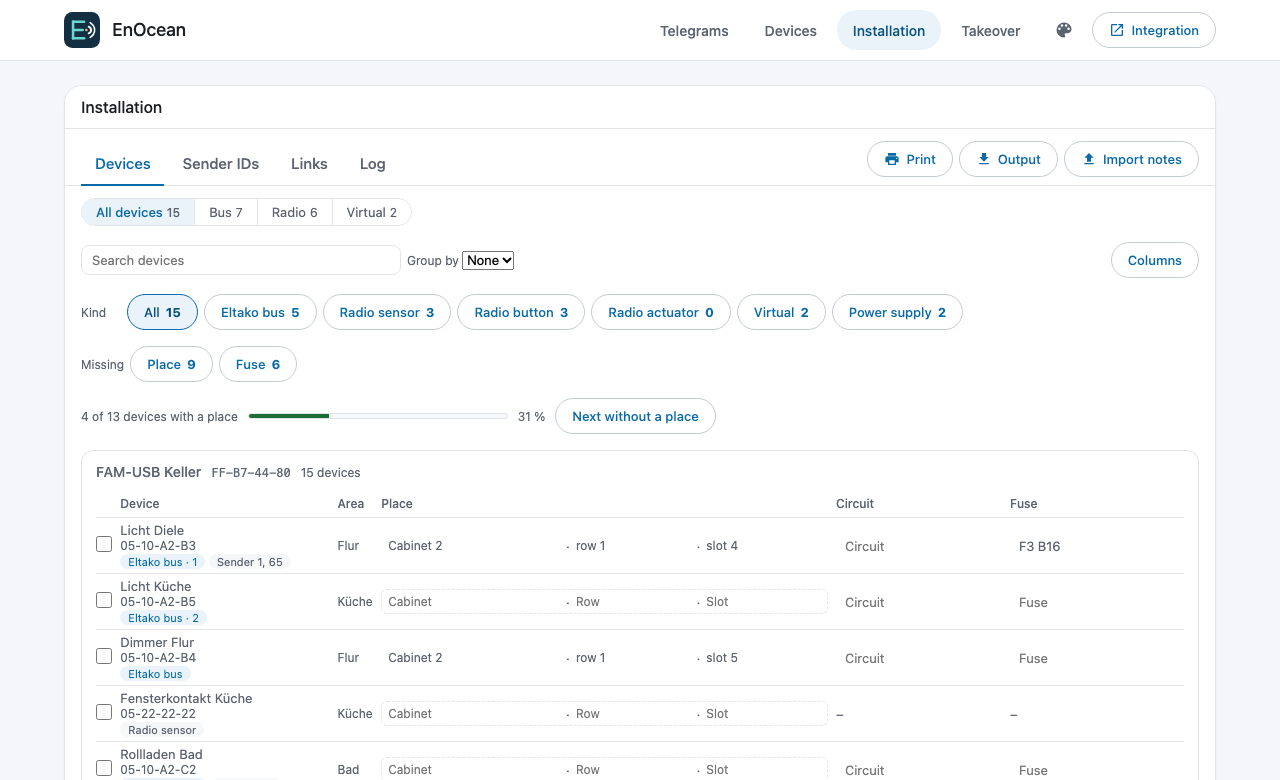
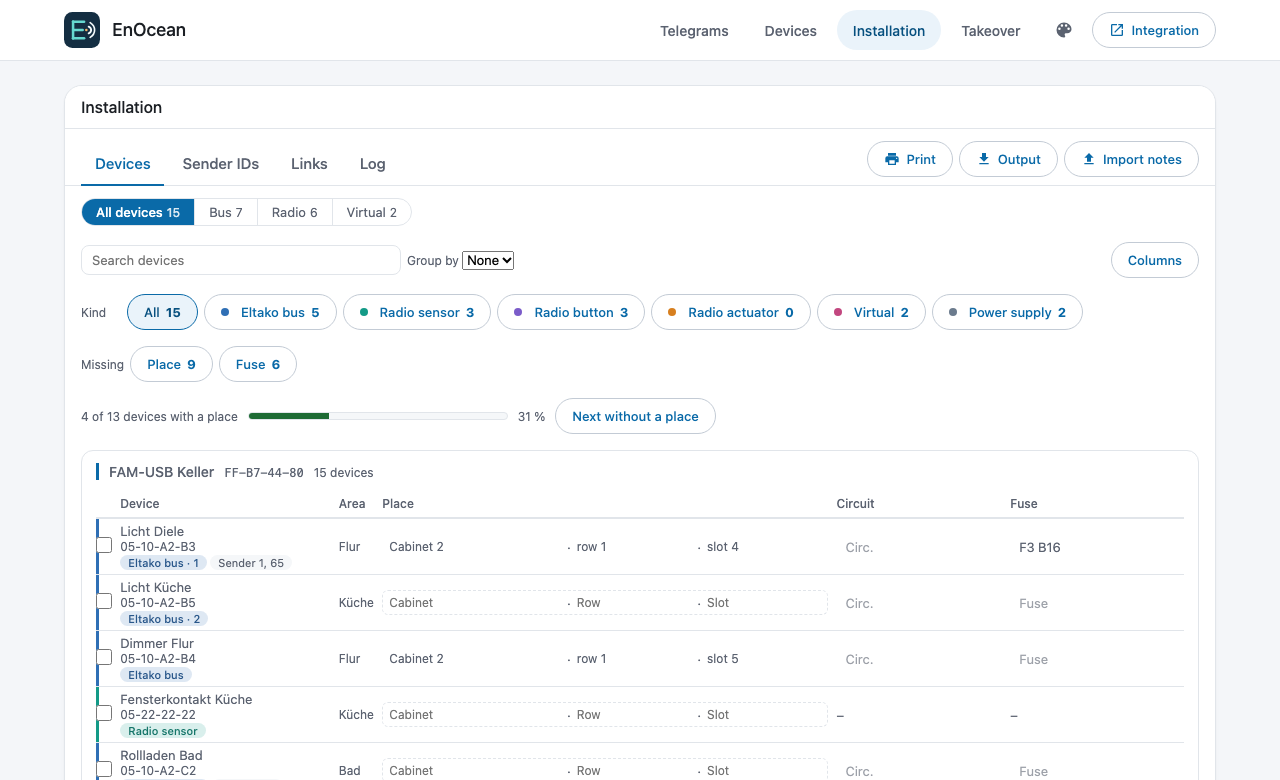
Installation: a hue per kind, accents on tiles, tinted groups, coloured link origins and log events
Colour carries meaning: kind tags, chips and row stripes share one palette, the origin of a
link has its own, tiles turn green or amber by state. New README screenshots; the preview
page takes iview, iart and ilinks to open a view.

diff --git a/custom_components/enocean_eltako/frontend/installation.js b/custom_components/enocean_eltako/frontend/installation.js
@@ -207,9 +207,6 @@ export const INSTALLATION_STYLE = `
   .installation .lnone { padding: 10px 12px; color: var(--warn); font-size: calc(13px * var(--fs)); border-top: 1px solid var(--line); background: color-mix(in srgb, var(--warn) 12%, transparent); }
   .installation .ladd { display: flex; flex-wrap: wrap; gap: 8px; align-items: center; padding: 8px 12px; border-top: 1px solid var(--line); }
   .installation .ladd input, .installation .ladd select { font: inherit; font-size: calc(13px * var(--fs)); padding: 5px 8px; border: 1px solid var(--line); border-radius: 6px; background: var(--surface); color: inherit; }
-  .installation .tag.src-assigned { background: color-mix(in srgb, var(--warn) 20%, transparent); color: inherit; }
-  .installation .tag.src-declared { background: var(--accent-soft); color: var(--accent); }
-  .installation .tag.src-entered { background: color-mix(in srgb, var(--ok) 18%, transparent); color: inherit; }
   .installation .tag.role { background: var(--accent-soft); color: var(--accent); }
   .installation .lrow > * { min-width: 0; }
   .installation .lrow .nm, .installation .lrow .lstate > span, .installation .lrow .nm a { overflow-wrap: anywhere; }
@@ -223,7 +220,8 @@ export const INSTALLATION_STYLE = `
   .installation .mcell.assigned { background: color-mix(in srgb, var(--warn) 20%, transparent); border-color: transparent; }
   .installation .mcell.declared { background: var(--accent-soft); color: var(--accent); border-color: transparent; }
   .installation .mcell.entered { background: color-mix(in srgb, var(--ok) 18%, transparent); border-color: transparent; }
-  .installation .mplus { cursor: pointer; color: var(--muted); background: none; border: 0; font: inherit; }
+  .installation .mplus { cursor: pointer; color: var(--muted); background: none; border: 0; font: inherit; width: 26px; height: 26px; border-radius: 50%; }
+  .installation .mplus:hover { background: var(--accent-soft); color: var(--accent); }
   @media (max-width: 720px) {
     .installation .lrow { display: flex; flex-wrap: wrap; }
     .installation .lrow > :nth-child(1), .installation .lrow > :nth-child(2), .installation .lrow > :nth-child(4) { flex: 1 1 100%; }
@@ -272,7 +270,50 @@ export const INSTALLATION_STYLE = `
   .installation details.colmenu summary::-webkit-details-marker { display: none; }
   .installation details.colmenu .items { position: absolute; right: 0; z-index: 5; margin-top: 4px; min-width: 200px; display: grid; gap: 2px; padding: 8px 10px; background: var(--surface); border: 1px solid var(--line); border-radius: 10px; }
   .installation details.colmenu label { display: flex; gap: 8px; align-items: center; font-size: calc(13px * var(--fs)); padding: 3px 0; cursor: pointer; }
-`;
+
+  /* colour: one hue per kind, used for tags, chips, row stripes and cards */
+  .installation { --k-bus: #2f6fb5; --k-sensor: #139a87; --k-taster: #7b5cc9; --k-aktor: #d77f1f; --k-virt: #c2477f; --k-psu: #6b7b8d; }
+  .installation .k-bus, .installation [data-k="bus"] { --k: var(--k-bus); }
+  .installation .k-sensor, .installation [data-k="sensor"] { --k: var(--k-sensor); }
+  .installation .k-taster, .installation [data-k="taster"] { --k: var(--k-taster); }
+  .installation .k-aktor, .installation [data-k="aktor"] { --k: var(--k-aktor); }
+  .installation .k-virt, .installation [data-k="virt"] { --k: var(--k-virt); }
+  .installation .k-psu, .installation [data-k="psu"] { --k: var(--k-psu); }
+  .installation .tag.kind { background: color-mix(in srgb, var(--k) 16%, transparent); color: color-mix(in srgb, var(--k) 70%, var(--text)); font-weight: 500; }
+  .installation .tag.kind:hover { background: color-mix(in srgb, var(--k) 26%, transparent); }
+  .installation .itable tr[data-k] > td:first-child { box-shadow: inset 3px 0 0 var(--k); }
+  .installation .chip[data-k]::before { content: ""; width: 8px; height: 8px; border-radius: 50%; background: var(--k); display: inline-block; margin-right: 6px; }
+  .installation .chip[data-k][aria-pressed="true"] { border-color: var(--k); background: color-mix(in srgb, var(--k) 14%, transparent); color: color-mix(in srgb, var(--k) 75%, var(--text)); }
+  .installation .seg button[aria-pressed="true"] { background: var(--accent); color: var(--on-accent); }
+  .installation .seg button[aria-pressed="true"] .isub { color: inherit; opacity: 0.85; }
+  .installation .tile { border-left: 3px solid var(--accent); background: color-mix(in srgb, var(--accent) 7%, var(--soft)); font-size: calc(16px * var(--fs)); font-weight: 500; line-height: 1.35; }
+  .installation .tile small { font-weight: 400; text-transform: none; letter-spacing: 0; }
+  .installation .tile.ok { border-left-color: var(--ok); background: color-mix(in srgb, var(--ok) 9%, var(--soft)); }
+  .installation .tile.bad { border-left-color: var(--warn); background: color-mix(in srgb, var(--warn) 18%, transparent); }
+  .installation .itable th { border-bottom: 2px solid var(--line); }
+  .installation .itable tbody tr:not(.grp):not(.psu):not(.free):hover td { background: color-mix(in srgb, var(--accent) 5%, transparent); }
+  .installation .itable tr.grp td { background: color-mix(in srgb, var(--accent) 10%, var(--soft)); }
+  .installation .itable tr.psu td { background: color-mix(in srgb, var(--k-psu) 14%, transparent); }
+  .installation .itable tr.psu.bad td { background: color-mix(in srgb, var(--warn) 20%, transparent); }
+  .installation .gwhead h3 { border-left: 3px solid var(--accent); padding-left: 10px; }
+  .installation .progress .barbg { height: 8px; border-radius: 4px; }
+  .installation .lcard { border-left: 4px solid var(--k, var(--line)); }
+  .installation .lhead { background: color-mix(in srgb, var(--k, var(--accent)) 9%, var(--soft)); }
+  .installation .tag.role, .installation .tag[class*="src-"] { font-weight: 500; }
+  .installation [data-src="assigned"], .installation .tag.src-assigned { --s: var(--k-aktor); }
+  .installation [data-src="declared"], .installation .tag.src-declared { --s: var(--k-bus); }
+  .installation [data-src="entered"], .installation .tag.src-entered { --s: var(--ok); }
+  .installation .tag[class*="src-"] { background: color-mix(in srgb, var(--s) 18%, transparent); color: color-mix(in srgb, var(--s) 70%, var(--text)); }
+  .installation .chip[data-src]::before { content: ""; width: 8px; height: 8px; border-radius: 50%; background: var(--s); display: inline-block; margin-right: 6px; }
+  .installation .chip[data-src][aria-pressed="true"] { border-color: var(--s); background: color-mix(in srgb, var(--s) 14%, transparent); color: color-mix(in srgb, var(--s) 75%, var(--text)); }
+  .installation .itable tr[data-k] > td.name:first-child { padding-left: 14px; }
+  .installation .tag.ev { --e: var(--k-psu); background: color-mix(in srgb, var(--e) 16%, transparent); color: color-mix(in srgb, var(--e) 72%, var(--text)); font-weight: 500; }
+  .installation .tag.ev-device_added { --e: var(--ok); }
+  .installation .tag.ev-device_removed, .installation .tag.ev-sender_removed { --e: var(--warn); }
+  .installation .tag.ev-sender_assigned { --e: var(--k-bus); }
+  .installation .tag.ev-teach_in { --e: var(--k-taster); }
+  .installation .tag.ev-sender_test { --e: var(--k-sensor); }
+  .installation .tag.ev-import { --e: var(--k-psu); }`;
 
 const gateways = (doc) => doc?.gateways ?? [];
 const label = (t, field) => t.inst.fields[field];
@@ -455,7 +496,7 @@ export const installation = {
     const plain = (id) => String(id ?? "").replaceAll("-", "").toUpperCase();
     const all = gateways(state.doc).flatMap((gw) => gw.devices.filter(isVirtual).map((d) => ({ gw, d })));
     const taught = ({ gw, d }) => gw.links.filter((l) => l.source === "entered" && plain(l.from_id) === plain(d.id));
-    const tile = (title, value, bad = false) => `<div class="tile${bad ? " bad" : ""}"><small>${esc(title)}</small>${value}</div>`;
+    const tile = (title, value, bad = false) => `<div class="tile${bad === "ok" ? " ok" : bad ? " bad" : ""}"><small>${esc(title)}</small>${value}</div>`;
     const sensors = all.filter(({ d }) => d.virtual);
     const tiles = `<div class="tiles">${tile(V.tileDevices, esc(I.funk.devicesN(all.length)))}${tile(V.tileLinked, `${all.filter((x) => taught(x).length).length} ${esc(I.of)} ${all.length}`)}${tile(V.tileNoSource, String(sensors.filter(({ d }) => !d.follows?.length).length), sensors.some(({ d }) => !d.follows?.length))}</div>`;
     const search = `<input class="isearch" data-in-search value="${esc(state.q)}" placeholder="${esc(I.search)}" aria-label="${esc(I.search)}">`;
@@ -465,7 +506,7 @@ export const installation = {
         const nr = numbers.length ? numbers.map((n) => `<a data-in-snd="${esc(gw.entry_id)}|${n}">${n}</a>`).join(", ") : "–";
         const follows = d.follows?.length ? d.follows.map((e) => `<span class="mono">${esc(e)}</span>`).join("<br>") : `<span class="isub">${esc(d.virtual ? V.noSource : V.sendsPress)}</span>`;
         const into = taught({ gw, d }).map((l) => (l.to_key && gw.devices.some((x) => x.note_key === l.to_key) ? `<a data-in-goto="${esc(gw.devices.find((x) => x.note_key === l.to_key).key)}">${esc(l.to_name)}</a>` : esc(l.to_name)) + (l.role ? ` <span class="isub">${esc(l.role)}</span>` : "") + (l.learn ? ` <span class="isub">· ${esc(l.learn)}</span>` : ""));
-        return `<tr data-in-row="${esc(d.key)}"><td class="name">${esc(d.name)}<div class="isub">${esc(d.model ?? "")}</div><div>${this._instKindTag(d)}</div></td><td class="mono">${nr}</td><td class="mono">${esc(d.id)}</td><td>${follows}</td><td class="lk">${into.length ? into.join("<br>") : `<span class="isub">${esc(V.noLink)}</span>`}</td></tr>`;
+        return `<tr data-in-row="${esc(d.key)}" data-k="virt"><td class="name">${esc(d.name)}<div class="isub">${esc(d.model ?? "")}</div><div>${this._instKindTag(d)}</div></td><td class="mono">${nr}</td><td class="mono">${esc(d.id)}</td><td>${follows}</td><td class="lk">${into.length ? into.join("<br>") : `<span class="isub">${esc(V.noLink)}</span>`}</td></tr>`;
       }).join("");
       const head = [I.device, V.cols.nr, V.cols.id, V.cols.follows, V.cols.taught].map((h) => `<th>${esc(h)}</th>`).join("");
       return `<section class="gw">${this._instGwHead(gw)}<div class="tablewrap"><table class="itable"><thead><tr>${head}</tr></thead><tbody>${rows || `<tr><td colspan="5" class="none">${esc(V.none)}</td></tr>`}</tbody></table></div></section>`;
@@ -495,10 +536,10 @@ export const installation = {
     const all = gateways(state.doc).flatMap((gw) => [...gw.devices.filter((d) => ["sensor", "taster", "aktor"].includes(kindOf(d))), ...this._instExtras(gw).filter((d) => d.manual && kindOf(d) !== "bus")]);
     const now = this._now() / 1000;
     const late = all.filter((d) => d.signal?.last != null && now - d.signal.last > SIGNAL_LATE).length;
-    const tile = (title, value, bad = false) => `<div class="tile${bad ? " bad" : ""}"><small>${esc(title)}</small>${value}</div>`;
+    const tile = (title, value, bad = false) => `<div class="tile${bad === "ok" ? " ok" : bad ? " bad" : ""}"><small>${esc(title)}</small>${value}</div>`;
     const tiles = `<div class="tiles">${tile(F.tileDevices, esc(F.devicesN(all.length)))}${tile(F.tileDocumented, String(all.filter((d) => d.manual).length))}${tile(F.tileSilent, String(late), late > 0)}${tile(F.tileRepeater, String(all.filter((d) => d.signal?.repeater_only).length))}</div>`;
     const kinds = ["taster", "sensor", "aktor"];
-    const artChips = `<div class="chips"><span class="isub lead">${esc(I.art)}</span><button class="chip" data-in-art="all" aria-pressed="${state.art === "all"}">${esc(I.all)} <b>${all.length}</b></button>${kinds.map((k) => `<button class="chip" data-in-art="${k}" aria-pressed="${state.art === k}">${esc(I.kinds[k])} <b>${all.filter((d) => kindOf(d) === k).length}</b></button>`).join("")}</div>`;
+    const artChips = `<div class="chips"><span class="isub lead">${esc(I.art)}</span><button class="chip" data-in-art="all" aria-pressed="${state.art === "all"}">${esc(I.all)} <b>${all.length}</b></button>${kinds.map((k) => `<button class="chip" data-k="${k}" data-in-art="${k}" aria-pressed="${state.art === k}">${esc(I.kinds[k])} <b>${all.filter((d) => kindOf(d) === k).length}</b></button>`).join("")}</div>`;
     const menu = `<details class="colmenu" ${state.colMenu ? "open" : ""}><summary class="chip">${esc(I.columns)}</summary><div class="items">${FUNK_COLUMNS.map((c) => `<label><input type="checkbox" data-in-funkcol="${c}" ${state.funkCols.has(c) ? "checked" : ""}>${esc(F.cols[c])}</label>`).join("")}</div></details>`;
     const search = `<input class="isearch" data-in-search value="${esc(state.q)}" placeholder="${esc(I.search)}" aria-label="${esc(I.search)}">`;
     const form = state.docForm
@@ -523,7 +564,7 @@ export const installation = {
         const name = d.manual ? `<input class="cell" data-in-mfield="name" data-in-gw="${esc(gw.entry_id)}" data-in-mid="${esc(d.mid)}" value="${esc(d.name === F.unnamed ? "" : d.name)}" placeholder="${esc(t.doc.manualName)}" aria-label="${esc(t.doc.manualName)}" autocomplete="off">` : esc(d.name);
         const sub = d.manual ? "" : `<div class="isub">${esc([d.model, d.eep].filter(Boolean).join(" · "))}</div>`;
         const delete_ = d.manual ? `<td><button class="icon-btn" data-in-mdel="${esc(d.mid)}" data-in-gw="${esc(gw.entry_id)}" title="${esc(t.doc.manualRemove)}" aria-label="${esc(t.doc.manualRemove)}">${svg(ICON.close)}</button></td>` : "<td></td>";
-        return `<tr data-in-row="${esc(d.key)}"><td class="name">${name}${sub}<div>${d.manual ? kindSelect : this._instKindTag(d)}${d.manual ? "" : this._instSendTag(gw, d)}${d.manual ? ` <span class="tag">${esc(F.documented)}</span>` : ""}</div></td>${cols.map((c) => cell(c, gw, d)).join("")}${delete_}</tr>`;
+        return `<tr data-in-row="${esc(d.key)}" data-k="${kindOf(d)}"><td class="name">${name}${sub}<div>${d.manual ? kindSelect : this._instKindTag(d)}${d.manual ? "" : this._instSendTag(gw, d)}${d.manual ? ` <span class="tag">${esc(F.documented)}</span>` : ""}</div></td>${cols.map((c) => cell(c, gw, d)).join("")}${delete_}</tr>`;
       }).join("");
       const head = cols.map((c) => `<th>${esc(F.cols[c])}</th>`).join("");
       return `<section class="gw">${this._instGwHead(gw)}<div class="tablewrap"><table class="itable"><thead><tr><th>${esc(I.device)}</th>${head}<th></th></tr></thead><tbody>${rows || `<tr><td colspan="${cols.length + 2}" class="none">${esc(F.none)}</td></tr>`}</tbody></table></div></section>`;
@@ -538,7 +579,7 @@ export const installation = {
 
   _instKindTag(d) {
     const kind = kindOf(d);
-    return `<button class="tag${kind === "bus" ? " bus" : ""}" data-in-kind="${kind}" title="${esc(this._t.inst.kindHint)}">${esc(this._t.inst.kinds[kind])}${kind === "bus" && d.bus_address ? ` · ${esc(d.bus_address)}` : ""}</button>`;
+    return `<button class="tag kind k-${kind}" data-in-kind="${kind}" title="${esc(this._t.inst.kindHint)}">${esc(this._t.inst.kinds[kind])}${kind === "bus" && d.bus_address ? ` · ${esc(d.bus_address)}` : ""}</button>`;
   },
 
   _instSendTag(gw, d) {
@@ -580,7 +621,7 @@ export const installation = {
       const name = d ? `${esc(d.name)}<div class="isub">${esc(d.id)}</div><div>${this._instKindTag(d)}${this._instSendTag(gw, d)}</div>` : `${esc(r.device)}<div class="isub">${esc(r.name)}</div>`;
       const tag = r.pending ? "" : r.from === "table" ? `<span class="tag" title="${esc(bus.source)}">${esc(T.busSourceTableShort)}</span>` : r.from === "group" ? `<span class="isub">${esc(T.busGroupLine)}</span>` : r.power === null ? `<span class="tag warn">${esc(T.noValue)}</span>` : "";
       const power = r.key ? `<span style="display:inline-flex;gap:6px;align-items:center;justify-content:flex-end">${cell(r, "bus_power", r.raw, `${T.power} (W)`, r.table !== null ? String(r.table).replace(".", ",") : "W")}${tag}</span>` : r.power === null ? tag : esc(num(r.power));
-      return `<tr${dups.has(r.address) ? ' class="dup"' : ""}><td class="name">${name}</td><td class="mono">${r.key ? cell(r, "bus_address", String(r.address), T.busAddress, "1–126") : r.address}</td><td>${r.key ? cell(r, "feedback_id", r.feedback, T.feedbackId, "00000081") : esc(r.feedback)}</td><td class="num">${power}</td><td>${r.key ? cell(r, "group", r.group, T.partOf) : esc(r.group)}</td></tr>`;
+      return `<tr data-k="bus"${dups.has(r.address) ? ' class="dup"' : ""}><td class="name">${name}</td><td class="mono">${r.key ? cell(r, "bus_address", r.address === "" ? "" : String(r.address), T.busAddress, t.inst.shortField.bus_address) : r.address}</td><td>${r.key ? cell(r, "feedback_id", r.feedback, T.feedbackId, t.inst.shortField.feedback_id) : esc(r.feedback)}</td><td class="num">${power}</td><td>${r.key ? cell(r, "group", r.group, T.partOf) : esc(r.group)}</td></tr>`;
     };
     const sfield = (x, field, ph, width) => `<input class="cell" data-in-sfield="${field}" data-in-gw="${esc(gw.entry_id)}" data-in-sid="${esc(x.s.id)}" value="${esc(x.s[field] ?? "")}" placeholder="${esc(ph)}" aria-label="${esc(ph)}" style="width:${width}px;min-width:0" autocomplete="off"${field === "watts" ? ' inputmode="decimal"' : field === "name" ? "" : ' inputmode="numeric"'}>`;
     const usage = (capacity, rows) => {
@@ -593,7 +634,7 @@ export const installation = {
       const u = usage(x.capacity, rowsOf[i]);
       const text = x.capacity !== null ? `${num(u.l)} ${t.inst.of} ${num(x.capacity)}${u.over ? ` · ${B.overloaded}` : ""}` : num(u.l);
       const place = [x.s.location, x.s.circuit, x.s.fuse].filter(Boolean).join(", ");
-      return { u, html: `<tr class="psu${u.over ? " bad" : ""}"><td colspan="5"><div class="psurow">${sfield(x, "name", t.doc.supplyName, 150)}${sfield(x, "watts", t.doc.supplyWatts, 64)}<span class="isub">W</span><span class="isub">${esc(T.busAddress)}</span>${sfield(x, "first", t.doc.supplyFirst, 56)}<span>–</span>${sfield(x, "last", t.doc.supplyLast, 56)}${bar(u)}<span class="isub">${esc(text)}</span>${place ? `<span class="isub">· ${esc(place)}</span>` : ""}<button class="icon-btn" data-in-supply-del="${esc(x.s.id)}" data-in-gw="${esc(gw.entry_id)}" title="${esc(t.doc.supplyRemove)}" aria-label="${esc(t.doc.supplyRemove)}">${svg(ICON.close)}</button></div></td></tr>${rowsOf[i].map(row).join("")}` };
+      return { u, html: `<tr class="psu${u.over ? " bad" : ""}" data-k="psu"><td colspan="5"><div class="psurow">${sfield(x, "name", t.doc.supplyName, 150)}${sfield(x, "watts", t.doc.supplyWatts, 64)}<span class="isub">W</span><span class="isub">${esc(T.busAddress)}</span>${sfield(x, "first", t.doc.supplyFirst, 56)}<span>–</span>${sfield(x, "last", t.doc.supplyLast, 56)}${bar(u)}<span class="isub">${esc(text)}</span>${place ? `<span class="isub">· ${esc(place)}</span>` : ""}<button class="icon-btn" data-in-supply-del="${esc(x.s.id)}" data-in-gw="${esc(gw.entry_id)}" title="${esc(t.doc.supplyRemove)}" aria-label="${esc(t.doc.supplyRemove)}">${svg(ICON.close)}</button></div></td></tr>${rowsOf[i].map(row).join("")}` };
     });
     let body = groups.map((g) => g.html).join("");
     if (!own.length) {
@@ -606,8 +647,8 @@ export const installation = {
     const overCount = groups.filter((g) => g.u.over).length;
     const runs = bus.items.filter((r) => r.free).map((r) => (r.from === r.to ? `${r.from}` : `${r.from}–${r.to}`));
     const missing = bus.rows.length - bus.counted;
-    const tile = (title, value, bad = false) => `<div class="tile${bad ? " bad" : ""}"><small>${esc(title)}</small>${value}</div>`;
-    const tiles = `<div class="tiles">${tile(B.duplicates, esc(bus.dups.length ? B.dupText(bus.dups.join(", ")) : B.none), bus.dups.length > 0)}${tile(B.used, esc(B.usedOf(new Set(bus.rows.map((r) => r.address)).size)))}${tile(B.free, esc(runs.slice(0, 6).join(", ") + (runs.length > 6 ? " …" : "")))}${tile(B.power, `${esc(num(bus.sum))}${missing ? ` <span class="isub">${esc(B.withoutValue(missing))}</span>` : ""}`)}${tile(B.supplies, esc(overCount ? B.supplyOver(overCount) : without.length && own.length ? B.supplyWithout(without.length) : B.supplyOk), overCount > 0 || (own.length > 0 && without.length > 0))}</div>`;
+    const tile = (title, value, bad = false) => `<div class="tile${bad === "ok" ? " ok" : bad ? " bad" : ""}"><small>${esc(title)}</small>${value}</div>`;
+    const tiles = `<div class="tiles">${tile(B.duplicates, esc(bus.dups.length ? B.dupText(bus.dups.join(", ")) : B.none), bus.dups.length > 0 ? true : "ok")}${tile(B.used, esc(B.usedOf(new Set(bus.rows.map((r) => r.address)).size)))}${tile(B.free, esc(runs.slice(0, 6).join(", ") + (runs.length > 6 ? " …" : "")))}${tile(B.power, `${esc(num(bus.sum))}${missing ? ` <span class="isub">${esc(B.withoutValue(missing))}</span>` : ""}`)}${tile(B.supplies, esc(overCount ? B.supplyOver(overCount) : without.length && own.length ? B.supplyWithout(without.length) : B.supplyOk), overCount > 0 || (own.length > 0 && without.length > 0) ? true : "ok")}</div>`;
     const notes = [
       bus.fromTable ? T.busFromTable(bus.source).replace(/^\* /, "") : "",
       bus.multi.length ? T.busMulti(bus.multi.join(", ")) : "",
@@ -679,7 +720,7 @@ export const installation = {
       const picked = state.selected.has(key(gw, d));
       const area = showArea ? `<td class="isub">${esc(d.area || "–")}</td>` : "";
       const pick = d.psu || d.manual ? "" : `<input type="checkbox" data-in-pick="${esc(key(gw, d))}" ${picked ? "checked" : ""} aria-label="${esc(d.name)}">`;
-      return `<tr data-in-row="${esc(d.key)}"><td>${pick}</td><td class="name">${esc(d.name)}<div class="isub">${esc(d.psu ? d.model : d.id)}</div><div>${this._instKindTag(d)}${d.psu || d.manual ? "" : this._instSendTag(gw, d)}${d.manual ? ` <span class="tag">${esc(I.funk.documented)}</span>` : ""}</div></td>${area}${cells}</tr>`;
+      return `<tr data-in-row="${esc(d.key)}" data-k="${kindOf(d)}"><td>${pick}</td><td class="name">${esc(d.name)}<div class="isub">${esc(d.psu ? d.model : d.id)}</div><div>${this._instKindTag(d)}${d.psu || d.manual ? "" : this._instSendTag(gw, d)}${d.manual ? ` <span class="tag">${esc(I.funk.documented)}</span>` : ""}</div></td>${area}${cells}</tr>`;
     };
     const sections = gateways(state.doc).map((gw) => {
       const devices = [...gw.devices, ...psus(gw)].filter(pass);
@@ -719,7 +760,7 @@ export const installation = {
     const present = gateways(state.doc).flatMap((gw) => [...gw.devices, ...psus(gw)]);
     const kindList = kinds ?? ["bus", "sensor", "taster", "aktor", "virt", "psu"];
     const artChips = kindList.length > 1
-      ? `<div class="chips"><span class="isub lead">${esc(I.art)}</span><button class="chip" data-in-art="all" aria-pressed="${state.art === "all"}">${esc(I.all)} <b>${present.filter((d) => !kinds || kinds.includes(kindOf(d))).length}</b></button>${kindList.map((k) => `<button class="chip" data-in-art="${k}" aria-pressed="${state.art === k}">${esc(I.kinds[k])} <b>${present.filter((d) => kindOf(d) === k).length}</b></button>`).join("")}</div>`
+      ? `<div class="chips"><span class="isub lead">${esc(I.art)}</span><button class="chip" data-in-art="all" aria-pressed="${state.art === "all"}">${esc(I.all)} <b>${present.filter((d) => !kinds || kinds.includes(kindOf(d))).length}</b></button>${kindList.map((k) => `<button class="chip" data-k="${k}" data-in-art="${k}" aria-pressed="${state.art === k}">${esc(I.kinds[k])} <b>${present.filter((d) => kindOf(d) === k).length}</b></button>`).join("")}</div>`
       : "";
     const missChips = state.view === "all"
       ? `<div class="chips"><span class="isub lead">${esc(I.missing)}</span><button class="chip" data-in-miss="loc" aria-pressed="${state.miss.loc}">${esc(label(t, "location"))} <b>${present.filter((d) => !isVirtual(d) && !d.location).length}</b></button><button class="chip" data-in-miss="fuse" aria-pressed="${state.miss.fuse}">${esc(label(t, "fuse"))} <b>${present.filter((d) => FUSE_KINDS.has(kindOf(d)) && !d.fuse).length}</b></button></div>`
@@ -771,13 +812,13 @@ export const installation = {
     const testable = (a) => a.device && a.device.category === "lighting" && (a.device.senders ?? []).length > 0;
     const untested = (l) => l.source === "assigned" && l.status === "unverified";
     const nTested = model.actuators.flatMap((a) => (testable(a) ? a.links.filter((l) => l.source === "assigned") : []));
-    const tile = (title, value, bad = false) => `<div class="tile${bad ? " bad" : ""}"><small>${esc(title)}</small>${value}</div>`;
+    const tile = (title, value, bad = false) => `<div class="tile${bad === "ok" ? " ok" : bad ? " bad" : ""}"><small>${esc(title)}</small>${value}</div>`;
     const without = model.actuators.filter((a) => !a.links.length && a.device).length;
     const noAnswer = gw.links.filter((l) => l.status === "no_answer").length;
     const notTested = nTested.filter(untested).length;
-    const tiles = `<div class="tiles">${tile(L.tiles.actuators, String(model.actuators.length))}${tile(L.tiles.links, String(gw.links.length))}${tile(L.tiles.none, String(without), without > 0)}${tile(L.tiles.noAnswer, String(noAnswer), noAnswer > 0)}${tile(L.tiles.untested, String(notTested))}</div>`;
+    const tiles = `<div class="tiles">${tile(L.tiles.actuators, String(model.actuators.length))}${tile(L.tiles.links, String(gw.links.length))}${tile(L.tiles.none, String(without), without > 0 ? true : "ok")}${tile(L.tiles.noAnswer, String(noAnswer), noAnswer > 0 ? true : "ok")}${tile(L.tiles.untested, String(notTested))}</div>`;
     const chip = (attr, value, current, text, count = null) => `<button class="chip" ${attr}="${value}" aria-pressed="${current === value}">${esc(text)}${count === null ? "" : ` <b>${count}</b>`}</button>`;
-    const filters = state.linkView === "matrix" ? "" : `<div class="chips"><span class="isub lead">${esc(L.show)}</span>${chip("data-in-linkfilter", "all", state.linkFilter, L.filters.all)}${chip("data-in-linkfilter", "none", state.linkFilter, L.filters.none, without)}${chip("data-in-linkfilter", "untested", state.linkFilter, L.filters.untested, notTested)}${chip("data-in-linkfilter", "noanswer", state.linkFilter, L.filters.noanswer, noAnswer)}</div><div class="chips"><span class="isub lead">${esc(L.source.title)}</span>${chip("data-in-linksource", "all", state.linkSource, L.filters.all)}${["assigned", "declared", "entered"].map((x) => chip("data-in-linksource", x, state.linkSource, L.source[x])).join("")}</div>`;
+    const filters = state.linkView === "matrix" ? "" : `<div class="chips"><span class="isub lead">${esc(L.show)}</span>${chip("data-in-linkfilter", "all", state.linkFilter, L.filters.all)}${chip("data-in-linkfilter", "none", state.linkFilter, L.filters.none, without)}${chip("data-in-linkfilter", "untested", state.linkFilter, L.filters.untested, notTested)}${chip("data-in-linkfilter", "noanswer", state.linkFilter, L.filters.noanswer, noAnswer)}</div><div class="chips"><span class="isub lead">${esc(L.source.title)}</span>${chip("data-in-linksource", "all", state.linkSource, L.filters.all)}${["assigned", "declared", "entered"].map((x) => chip("data-in-linksource", x, state.linkSource, L.source[x]).replace('<button class="chip"', `<button class="chip" data-src="${x}"`)).join("")}</div>`;
     const passLink = (l) => (state.linkSource === "all" || l.source === state.linkSource) && (state.linkFilter !== "untested" || untested(l)) && (state.linkFilter !== "noanswer" || l.status === "no_answer");
     const body = state.linkView === "matrix" ? this._instLinkMatrix(gw, model) : state.linkView === "sender" ? this._instLinkBySender(gw, model, passLink) : this._instLinkByActuator(gw, model, passLink, testable);
     return `${tiles}${filters}${body}`;
@@ -835,7 +876,7 @@ export const installation = {
       const numbers = a.device ? (gw.numbers?.get(a.device.note_key) ?? []) : [];
       const head = `<div class="lhead"><div><b>${a.device ? `<a data-in-goto="${esc(a.device.key)}">${esc(a.name)}</a>` : esc(a.name)}</b><div class="isub">${esc([a.device?.model, a.id].filter(Boolean).join(" · "))}</div></div>${a.device ? this._instKindTag(a.device) : ""}${numbers.length ? ` <button class="tag" data-in-snd="${esc(gw.entry_id)}|${numbers[0]}">${esc(this._t.inst.senderTag(numbers.join(", ")))}</button>` : ""}<span class="grow"></span><span class="isub">${a.links.length ? L.count(a.links.length) : ""}</span>${testable(a) ? `<button class="chip" data-in-test="${esc(a.device.key)}" data-in-gw="${esc(gw.entry_id)}" ${running ? "disabled" : ""}>${esc(running ? L.testing : L.test)}</button>` : ""}<button class="chip" data-in-linkadd="${esc(key)}">${esc(L.addLink)}</button></div>`;
       const rows = a.links.length ? shown.map((l) => this._instLinkRow(gw, l, model, "actuator")).join("") : `<div class="lnone">${esc(L.noLink)}</div>`;
-      return `<div class="lcard">${head}${rows}${this._instLinkAddForm(gw, model, key, "actuator")}</div>`;
+      return `<div class="lcard" data-k="${a.device ? kindOf(a.device) : "aktor"}">${head}${rows}${this._instLinkAddForm(gw, model, key, "actuator")}</div>`;
     }).join("");
     return cards || `<div class="none">${esc(L.none)}</div>`;
   },
@@ -850,7 +891,7 @@ export const installation = {
       const key = `s|${x.key}`;
       const title = x.kind === "ha" ? `${L.from.ha} · ${x.id}` : [x.name, x.id].filter(Boolean).join(" · ");
       const head = `<div class="lhead"><div><b>${x.device ? `<a data-in-goto="${esc(x.device.key)}">${esc(title)}</a>` : esc(title)}</b></div><span class="grow"></span>${wallWithoutDevice(x) || (x.kind === "entered" && !x.device && x.id) ? `<button class="chip" data-in-walldoc="${esc(x.id)}" data-in-gw="${esc(gw.entry_id)}" title="${esc(L.documentHint)}">${esc(L.document)}</button>` : ""}<button class="chip" data-in-linkadd="${esc(key)}">${esc(L.addActuator)}</button></div>`;
-      return `<div class="lcard">${head}${shown.map((l) => this._instLinkRow(gw, l, model, "sender")).join("")}${this._instLinkAddForm(gw, model, key, "sender")}</div>`;
+      return `<div class="lcard" data-k="${x.device ? kindOf(x.device) : x.kind === "ha" ? "virt" : "taster"}">${head}${shown.map((l) => this._instLinkRow(gw, l, model, "sender")).join("")}${this._instLinkAddForm(gw, model, key, "sender")}</div>`;
     }).join("");
     return cards || `<div class="none">${esc(L.none)}</div>`;
   },
@@ -874,7 +915,7 @@ export const installation = {
     const rows = gateways(this._in.doc)
       .flatMap((gw) => gw.log.map((e) => ({ ...e, gateway: gw.title })))
       .sort((a, b) => b.time.localeCompare(a.time))
-      .map((e) => `<tr><td class="mono">${esc(new Date(e.time).toLocaleString(this._hass.language))}</td><td class="kind">${esc(t.inst.events[e.kind] || e.kind)}</td><td>${esc(e.detail || e.device)}</td>${multi ? `<td class="isub">${esc(e.gateway)}</td>` : ""}</tr>`)
+      .map((e) => `<tr><td class="mono">${esc(new Date(e.time).toLocaleString(this._hass.language))}</td><td class="kind"><span class="tag ev ev-${esc(e.kind)}">${esc(t.inst.events[e.kind] || e.kind)}</span></td><td>${esc(e.detail || e.device)}</td>${multi ? `<td class="isub">${esc(e.gateway)}</td>` : ""}</tr>`)
       .join("");
     if (!rows) return `<div class="none">${esc(t.inst.noLog)}</div>`;
     return `<div class="tablewrap"><table class="itable log"><thead><tr><th>${esc(t.time)}</th><th>${esc(t.inst.event)}</th><th>${esc(t.inst.detail)}</th>${multi ? `<th>${esc(t.gateway)}</th>` : ""}</tr></thead><tbody>${rows}</tbody></table></div>`;

diff --git a/scripts/panel-preview/index.html b/scripts/panel-preview/index.html
@@ -35,6 +35,12 @@
       panel._devOpen.add(what);
       await panel._loadDevDetail(what, "gw1");
     }
+    // ?iview=bus|funk|virt, ?iart=sensor ..., ?ilinks=sender|matrix pick what the Installation view shows
+    const q = new URLSearchParams(location.search);
+    if (q.get("iview")) panel._in.view = q.get("iview");
+    if (q.get("iart")) panel._in.art = q.get("iart");
+    if (q.get("ilinks")) panel._in.linkView = q.get("ilinks");
+    if (view === "installation") panel._renderInstallation();
     panel._renderCards();
     panel._render();
   }

diff --git a/CHANGELOG.md b/CHANGELOG.md
@@ -24,6 +24,7 @@ has an English and a German part. The format follows [Keep a Changelog](https://
   - Devices of the Eltako series 14 (FSR14, FUD14, FSB14 ...) count as **Eltako bus** even without an address and wait in the group *No bus address yet* of the Bus view; a room controller is a radio sensor, not an actuator, so the Links tab does not ask who switches it.
   - **Sender IDs**: the table of the gateway senders with the sender ID pool, as before, one row per sender.
   - **Links**: a card per actuator, per sender or a **matrix**; every link names the other end, the role and its origin (assigned, declared, entered), the learn position and the state. An actuator without a link is marked; tiles and filters show what is open; **Test senders**, **+ Link**, **+ Actuator**, a **+** in the matrix and **Write down as device** for a wall switch ID without a device. The table of the former Buttons tab (left and right rocker) is this tab grouped by sender.
+- **Colour in the Installation view**: every kind has its own hue (Eltako bus blue, radio sensor teal, radio button violet, radio actuator orange, virtual magenta, power supply slate), used for the kind tag, the dot of the kind chips, a stripe at the left of each row and the cards of the Links tab. The views are switched with a solid selected button, the tiles carry an accent (green when all is well, amber when something is open), group and supply rows are tinted, the origin of a link has its own colour (assigned orange, declared blue, entered green) in tags and filters, and the events of the log are coloured tags.
 - The device table shows **only the columns a kind can use**: the table of all kinds has place, circuit, fuse, installation date and note; choose a kind above and the columns for it appear (bus address, feedback ID and bus power for the Eltako bus; supply for radio devices; part of and revision where they make sense). Empty fields carry short hints (Circ., Fuse, Addr.) instead of the full column name, and the column group *Bus and radio* is just *Bus*.
 - The block to **paste from a spreadsheet** is now **Edit with a spreadsheet**: three numbered steps (copy the table, fill it in, paste it back) with a plain hint instead of a tab-separated example, and a line under the text field that says how many rows and fields were found before you apply them.
 - Storage and documentation: the notes store is now **version 5**. A power supply of the bus has a place, circuit, fuse and note, and an entry written down by hand has a kind, place and supply (older entries are migrated, the new fields start empty). The documentation tells for every device when it was last heard, the best signal and whether it is heard only via a repeater, and for a virtual sensor the entities it follows.
@@ -46,6 +47,7 @@ has an English and a German part. The format follows [Keep a Changelog](https://
   - Geräte der Eltako-Baureihe 14 (FSR14, FUD14, FSB14 …) zählen als **Eltako-Bus**, auch ohne Adresse, und warten in der Gruppe *Noch keine Bus-Adresse* der Bus-Ansicht; ein Raumregler ist ein Funk-Sensor und kein Aktor, deshalb fragt der Reiter Verbindungen nicht, wer ihn schaltet.
   - **Sender-IDs**: die Tabelle der Gateway-Sender mit dem Sender-ID-Pool, wie bisher, eine Zeile je Sender.
   - **Verbindungen**: eine Karte je Aktor, je Sender oder eine **Matrix**; jede Verbindung nennt das andere Ende, die Rolle und die Herkunft (vergeben, angegeben, eingetragen), die Lernposition und den Stand. Ein Aktor ohne Verbindung ist markiert; Kacheln und Filter zeigen, was offen ist; **Sender testen**, **+ Verbindung**, **+ Aktor**, ein **+** in der Matrix und **Als Gerät notieren** für eine Wandschalter-ID ohne Gerät. Die Tabelle des früheren Reiters Taster (linke und rechte Wippe) ist dieser Reiter nach Sender gruppiert.
+- **Farbe in der Anlage-Ansicht**: jede Art hat ihren Farbton (Eltako-Bus blau, Funk Sensor türkis, Funk Taster violett, Funk Aktor orange, Virtuell magenta, Netzteil schiefergrau) für das Kennzeichen, den Punkt der Art-Chips, einen Streifen am Zeilenanfang und die Karten der Verbindungen. Die Ansichten werden mit einem vollfarbigen gewählten Knopf umgeschaltet, die Kacheln tragen einen Akzent (grün, wenn alles in Ordnung ist, bernstein, wenn etwas offen ist), Gruppen- und Netzteilzeilen sind getönt, die Herkunft einer Verbindung hat eine eigene Farbe (vergeben orange, angegeben blau, eingetragen grün) in Kennzeichen und Filtern, und die Ereignisse des Protokolls sind farbige Kennzeichen.
 - Die Gerätetabelle zeigt **nur die Spalten, die eine Art nutzen kann**: die Tabelle aller Arten hat Ort, Stromkreis, Sicherung, Einbaudatum und Notiz; wählst du oben eine Art, erscheinen die Spalten dafür (Bus-Adresse, Rückmelde-ID und Leistung am Bus für den Eltako-Bus; Versorgung für Funk-Geräte; Gehört zu und Revision, wo sie Sinn haben). Leere Felder tragen kurze Hinweise (Kreis, Sich., Adr.) statt des vollen Spaltennamens, und die Spaltengruppe *Bus und Funk* heißt nur noch *Bus*.
 - Der Block zum **Einfügen aus einer Tabellenkalkulation** heißt jetzt **Mit einer Tabellenkalkulation bearbeiten**: drei nummerierte Schritte (Tabelle kopieren, ausfüllen, wieder einfügen) mit einem klaren Hinweis statt eines Beispiels mit Tabulatoren, und eine Zeile unter dem Textfeld, die vor dem Übernehmen sagt, wie viele Zeilen und Felder erkannt wurden.
 - Speicher und Dokumentation: der Notizspeicher hat jetzt **Version 5**. Ein Netzteil des Busses hat Ort, Stromkreis, Sicherung und Notiz, ein von Hand notierter Eintrag eine Art, einen Ort und eine Versorgung (ältere Einträge werden migriert, die neuen Felder sind leer). Die Dokumentation nennt zu jedem Gerät, wann es zuletzt gehört wurde, das beste Signal und ob es nur über einen Repeater ankommt, und zu einem virtuellen Sensor die Entitäten, denen er folgt.
